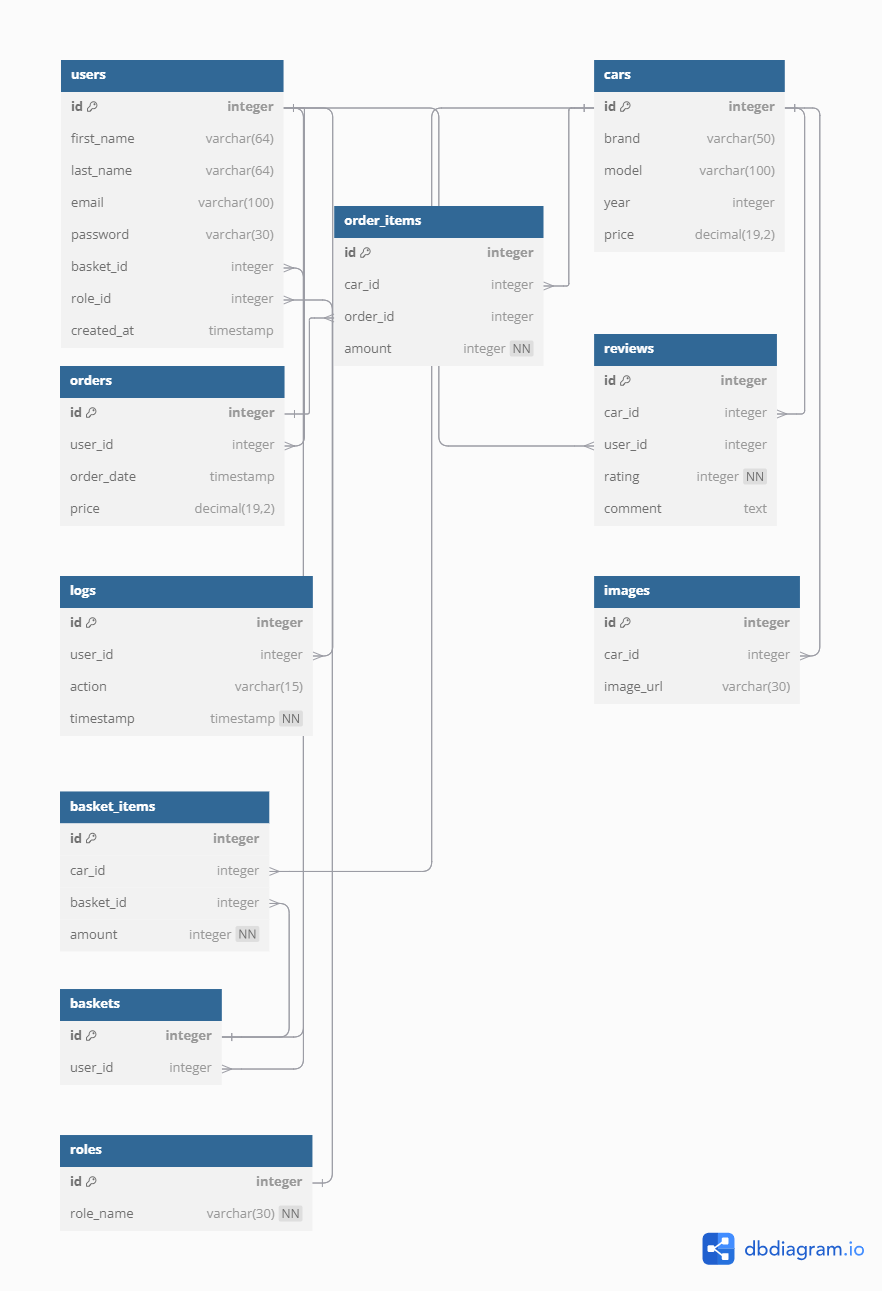
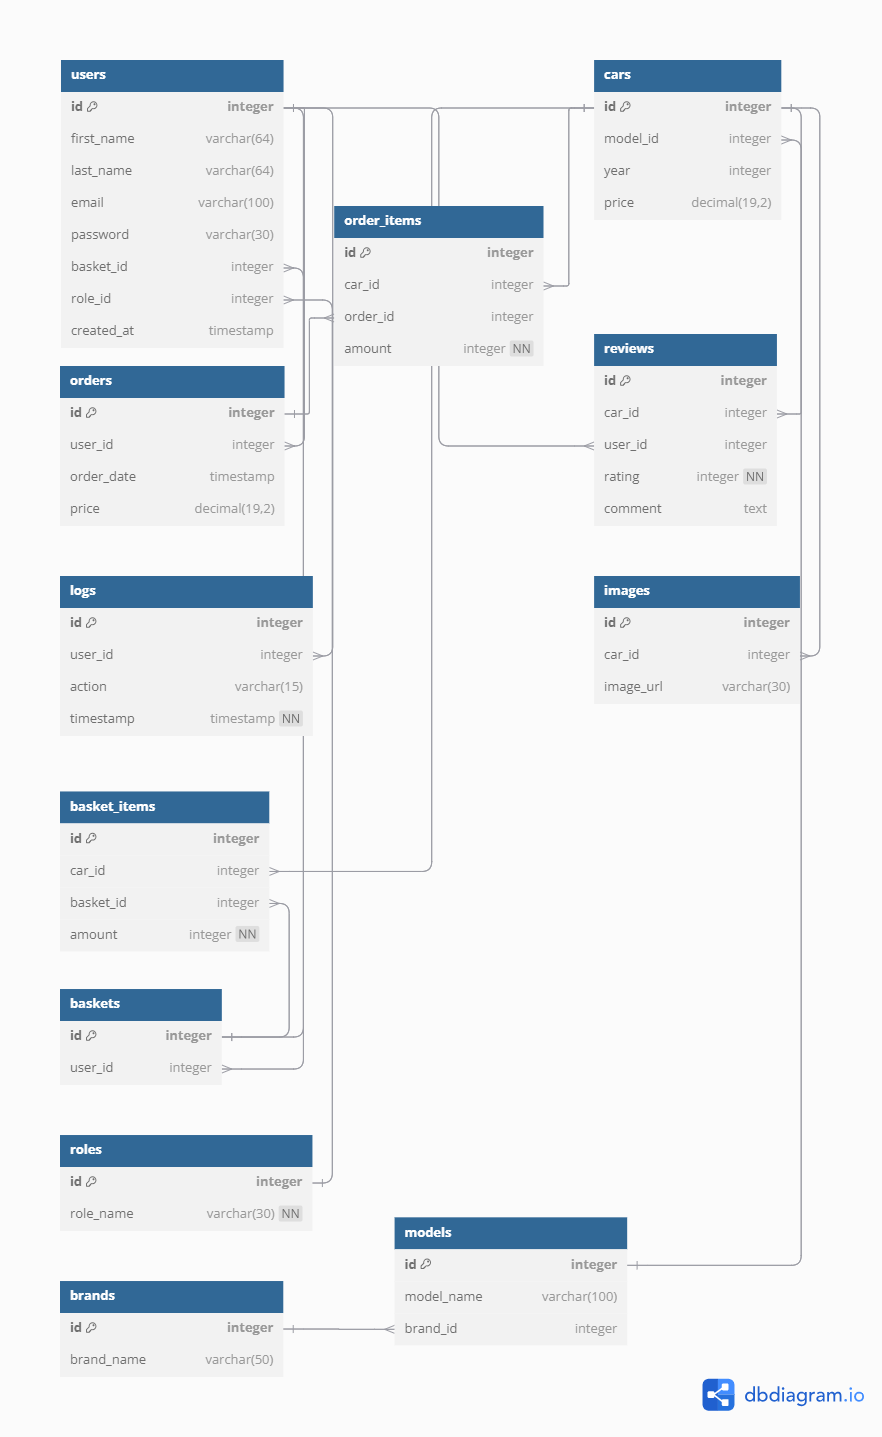
Lab 2

diff --git a/README.md b/README.md
@@ -56,85 +56,208 @@
 
 ## Перечень сущностей БД
 ```
-CREATE TABLE users (
-  id SERIAL PRIMARY KEY,                 -- Уникальный идентификатор пользователя
-  first_name VARCHAR(64),                -- Имя пользователя
-  last_name VARCHAR(64),                 -- Фамилия пользователя
-  email VARCHAR(100) UNIQUE,             -- Электронная почта (уникальная)
-  password VARCHAR(30),                  -- Пароль пользователя
-  basket_id INTEGER REFERENCES baskets(id),  -- Ссылка на корзину пользователя
-  role_id INTEGER REFERENCES roles(id),  -- Ссылка на роль пользователя
-  created_at TIMESTAMP DEFAULT CURRENT_TIMESTAMP  -- Дата создания пользователя
+CREATE TABLE IF NOT EXISTS public.basket_items
+(
+    id serial NOT NULL,
+    car_id integer NOT NULL,
+    basket_id integer NOT NULL,
+    amount integer NOT NULL DEFAULT 1,
+    CONSTRAINT basket_items_pkey PRIMARY KEY (id)
 );
 
--- Таблица ролей
-CREATE TABLE roles (
-  id SERIAL PRIMARY KEY,                -- Уникальный идентификатор роли
-  role_name VARCHAR(30) NOT NULL DEFAULT 'user'  -- Название роли (по умолчанию 'user')
+CREATE TABLE IF NOT EXISTS public.baskets
+(
+    id serial NOT NULL,
+    user_id integer NOT NULL,
+    CONSTRAINT baskets_pkey PRIMARY KEY (id),
+    CONSTRAINT unique_user UNIQUE (user_id)
 );
 
--- Таблица автомобилей
-CREATE TABLE cars (
-  id SERIAL PRIMARY KEY,                -- Уникальный идентификатор автомобиля
-  brand VARCHAR(50),                    -- Бренд автомобиля
-  model VARCHAR(100),                   -- Модель автомобиля
-  year INTEGER,                         -- Год выпуска
-  price DECIMAL(19, 2)                  -- Цена автомобиля
+CREATE TABLE IF NOT EXISTS public.brands
+(
+    id serial NOT NULL,
+    brand_name character varying(50) COLLATE pg_catalog."default" NOT NULL,
+    CONSTRAINT brands_pkey PRIMARY KEY (id),
+    CONSTRAINT unique_brand UNIQUE (brand_name)
 );
 
--- Таблица заказов
-CREATE TABLE orders (
-  id SERIAL PRIMARY KEY,                -- Уникальный идентификатор заказа
-  user_id INTEGER REFERENCES users(id), -- Ссылка на пользователя, сделавшего заказ
-  order_date TIMESTAMP DEFAULT CURRENT_TIMESTAMP,  -- Дата заказа
-  price DECIMAL(19, 2)                  -- Цена заказа
+CREATE TABLE IF NOT EXISTS public.cars
+(
+    id serial NOT NULL,
+    model_id integer,
+    price numeric(19, 2),
+    year integer,
+    CONSTRAINT cars_pkey PRIMARY KEY (id)
 );
 
--- Таблица элементов заказа
-CREATE TABLE order_items (
-  id SERIAL PRIMARY KEY,                -- Уникальный идентификатор элемента заказа
-  car_id INTEGER REFERENCES cars(id),   -- Ссылка на автомобиль
-  order_id INTEGER REFERENCES orders(id),  -- Ссылка на заказ
-  amount INTEGER NOT NULL DEFAULT 1     -- Количество единиц товара (по умолчанию 1)
+CREATE TABLE IF NOT EXISTS public.images
+(
+    id serial NOT NULL,
+    car_id integer,
+    image_url character varying(30) COLLATE pg_catalog."default" NOT NULL,
+    description character varying(30) COLLATE pg_catalog."default",
+    CONSTRAINT images_pkey PRIMARY KEY (id)
 );
 
--- Таблица корзин
-CREATE TABLE baskets (
-  id SERIAL PRIMARY KEY,                -- Уникальный идентификатор корзины
-  user_id INTEGER REFERENCES users(id)  -- Ссылка на пользователя, владеющего корзиной
+CREATE TABLE IF NOT EXISTS public.logs
+(
+    id serial NOT NULL,
+    user_id integer NOT NULL,
+    action character varying(20) COLLATE pg_catalog."default",
+    "timestamp" timestamp without time zone NOT NULL DEFAULT CURRENT_TIMESTAMP,
+    CONSTRAINT logs_pkey PRIMARY KEY (id)
 );
 
--- Таблица элементов корзины
-CREATE TABLE basket_items (
-  id SERIAL PRIMARY KEY,                -- Уникальный идентификатор элемента корзины
-  car_id INTEGER REFERENCES cars(id),   -- Ссылка на автомобиль
-  basket_id INTEGER REFERENCES baskets(id),  -- Ссылка на корзину
-  amount INTEGER NOT NULL DEFAULT 1     -- Количество единиц товара (по умолчанию 1)
+CREATE TABLE IF NOT EXISTS public.models
+(
+    id serial NOT NULL,
+    model_name character varying(100) COLLATE pg_catalog."default" NOT NULL,
+    brand_id integer,
+    CONSTRAINT models_pkey PRIMARY KEY (id)
 );
 
--- Таблица отзывов
-CREATE TABLE reviews (
-  id SERIAL PRIMARY KEY,                -- Уникальный идентификатор отзыва
-  car_id INTEGER REFERENCES cars(id),   -- Ссылка на автомобиль
-  user_id INTEGER REFERENCES users(id), -- Ссылка на пользователя, оставившего отзыв
-  rating INTEGER NOT NULL,              -- Оценка отзыва
-  comment TEXT                          -- Текст отзыва
+CREATE TABLE IF NOT EXISTS public.order_items
+(
+    id serial NOT NULL,
+    car_id integer NOT NULL,
+    order_id integer NOT NULL,
+    amount integer NOT NULL DEFAULT 1,
+    CONSTRAINT order_items_pkey PRIMARY KEY (id)
 );
 
--- Таблица логов действий
-CREATE TABLE logs (
-  id SERIAL PRIMARY KEY,                -- Уникальный идентификатор лога
-  user_id INTEGER REFERENCES users(id), -- Ссылка на пользователя
-  action VARCHAR(15),                   -- Действие пользователя
-  timestamp TIMESTAMP NOT NULL DEFAULT CURRENT_TIMESTAMP  -- Время выполнения действия
+CREATE TABLE IF NOT EXISTS public.orders
+(
+    id serial NOT NULL,
+    user_id integer NOT NULL,
+    order_date timestamp without time zone NOT NULL DEFAULT CURRENT_TIMESTAMP,
+    price numeric(19, 2) NOT NULL,
+    CONSTRAINT orders_pkey PRIMARY KEY (id)
 );
 
--- Таблица изображений
-CREATE TABLE images (
-  id SERIAL PRIMARY KEY,                -- Уникальный идентификатор изображения
-  car_id INTEGER REFERENCES cars(id),   -- Ссылка на автомобиль
-  image_url VARCHAR(30)                 -- URL изображения автомобиля
+CREATE TABLE IF NOT EXISTS public.reviews
+(
+    id serial NOT NULL,
+    car_id integer NOT NULL,
+    user_id integer NOT NULL,
+    rating integer NOT NULL DEFAULT 3,
+    comment text COLLATE pg_catalog."default",
+    CONSTRAINT reviews_pkey PRIMARY KEY (id)
 );
+
+CREATE TABLE IF NOT EXISTS public.roles
+(
+    id serial NOT NULL,
+    role_name character varying(30) COLLATE pg_catalog."default" NOT NULL DEFAULT 'user'::character varying,
+    CONSTRAINT roles_pkey PRIMARY KEY (id),
+    CONSTRAINT unique_name UNIQUE (role_name)
+);
+
+CREATE TABLE IF NOT EXISTS public.users
+(
+    id serial NOT NULL,
+    first_name character varying(64) COLLATE pg_catalog."default" NOT NULL,
+    last_name character varying(64) COLLATE pg_catalog."default" NOT NULL,
+    email character varying(64) COLLATE pg_catalog."default" NOT NULL,
+    password_hash character varying(100) COLLATE pg_catalog."default" NOT NULL,
+    role_id integer NOT NULL,
+    created_at timestamp without time zone DEFAULT CURRENT_TIMESTAMP,
+    CONSTRAINT users_pkey PRIMARY KEY (id),
+    CONSTRAINT unique_pass UNIQUE (password_hash),
+    CONSTRAINT users_email_key UNIQUE (email),
+    CONSTRAINT users_password_hash_key UNIQUE (password_hash)
+);
+
+ALTER TABLE IF EXISTS public.basket_items
+    ADD CONSTRAINT basket_items_basket_id_fkey FOREIGN KEY (basket_id)
+    REFERENCES public.baskets (id) MATCH SIMPLE
+    ON UPDATE NO ACTION
+    ON DELETE CASCADE;
+
+
+ALTER TABLE IF EXISTS public.basket_items
+    ADD CONSTRAINT basket_items_car_id_fkey FOREIGN KEY (car_id)
+    REFERENCES public.cars (id) MATCH SIMPLE
+    ON UPDATE NO ACTION
+    ON DELETE CASCADE;
+
+
+ALTER TABLE IF EXISTS public.baskets
+    ADD CONSTRAINT baskets_user_id_fkey FOREIGN KEY (user_id)
+    REFERENCES public.users (id) MATCH SIMPLE
+    ON UPDATE NO ACTION
+    ON DELETE CASCADE;
+CREATE INDEX IF NOT EXISTS unique_user
+    ON public.baskets(user_id);
+
+
+ALTER TABLE IF EXISTS public.cars
+    ADD CONSTRAINT cars_model_id_fkey FOREIGN KEY (model_id)
+    REFERENCES public.models (id) MATCH SIMPLE
+    ON UPDATE NO ACTION
+    ON DELETE NO ACTION;
+
+
+ALTER TABLE IF EXISTS public.images
+    ADD CONSTRAINT images_car_id_fkey FOREIGN KEY (car_id)
+    REFERENCES public.cars (id) MATCH SIMPLE
+    ON UPDATE NO ACTION
+    ON DELETE CASCADE;
+
+
+ALTER TABLE IF EXISTS public.logs
+    ADD CONSTRAINT logs_user_id_fkey FOREIGN KEY (user_id)
+    REFERENCES public.users (id) MATCH SIMPLE
+    ON UPDATE NO ACTION
+    ON DELETE NO ACTION;
+
+
+ALTER TABLE IF EXISTS public.models
+    ADD CONSTRAINT models_brand_id_fkey FOREIGN KEY (brand_id)
+    REFERENCES public.brands (id) MATCH SIMPLE
+    ON UPDATE NO ACTION
+    ON DELETE NO ACTION;
+
+
+ALTER TABLE IF EXISTS public.order_items
+    ADD CONSTRAINT order_items_car_id_fkey FOREIGN KEY (car_id)
+    REFERENCES public.cars (id) MATCH SIMPLE
+    ON UPDATE NO ACTION
+    ON DELETE NO ACTION;
+
+
+ALTER TABLE IF EXISTS public.order_items
+    ADD CONSTRAINT order_items_order_id_fkey FOREIGN KEY (order_id)
+    REFERENCES public.orders (id) MATCH SIMPLE
+    ON UPDATE NO ACTION
+    ON DELETE CASCADE;
+
+
+ALTER TABLE IF EXISTS public.orders
+    ADD CONSTRAINT user_order FOREIGN KEY (user_id)
+    REFERENCES public.users (id) MATCH SIMPLE
+    ON UPDATE NO ACTION
+    ON DELETE NO ACTION;
+
+
+ALTER TABLE IF EXISTS public.reviews
+    ADD CONSTRAINT reviews_car_id_fkey FOREIGN KEY (car_id)
+    REFERENCES public.cars (id) MATCH SIMPLE
+    ON UPDATE NO ACTION
+    ON DELETE NO ACTION;
+
+
+ALTER TABLE IF EXISTS public.reviews
+    ADD CONSTRAINT reviews_user_id_fkey FOREIGN KEY (user_id)
+    REFERENCES public.users (id) MATCH SIMPLE
+    ON UPDATE NO ACTION
+    ON DELETE NO ACTION;
+
+
+ALTER TABLE IF EXISTS public.users
+    ADD CONSTRAINT users_role_id_fkey FOREIGN KEY (role_id)
+    REFERENCES public.roles (id) MATCH SIMPLE
+    ON UPDATE NO ACTION
+    ON DELETE SET NULL;
 ```
 
 ## Связи между сущностями
